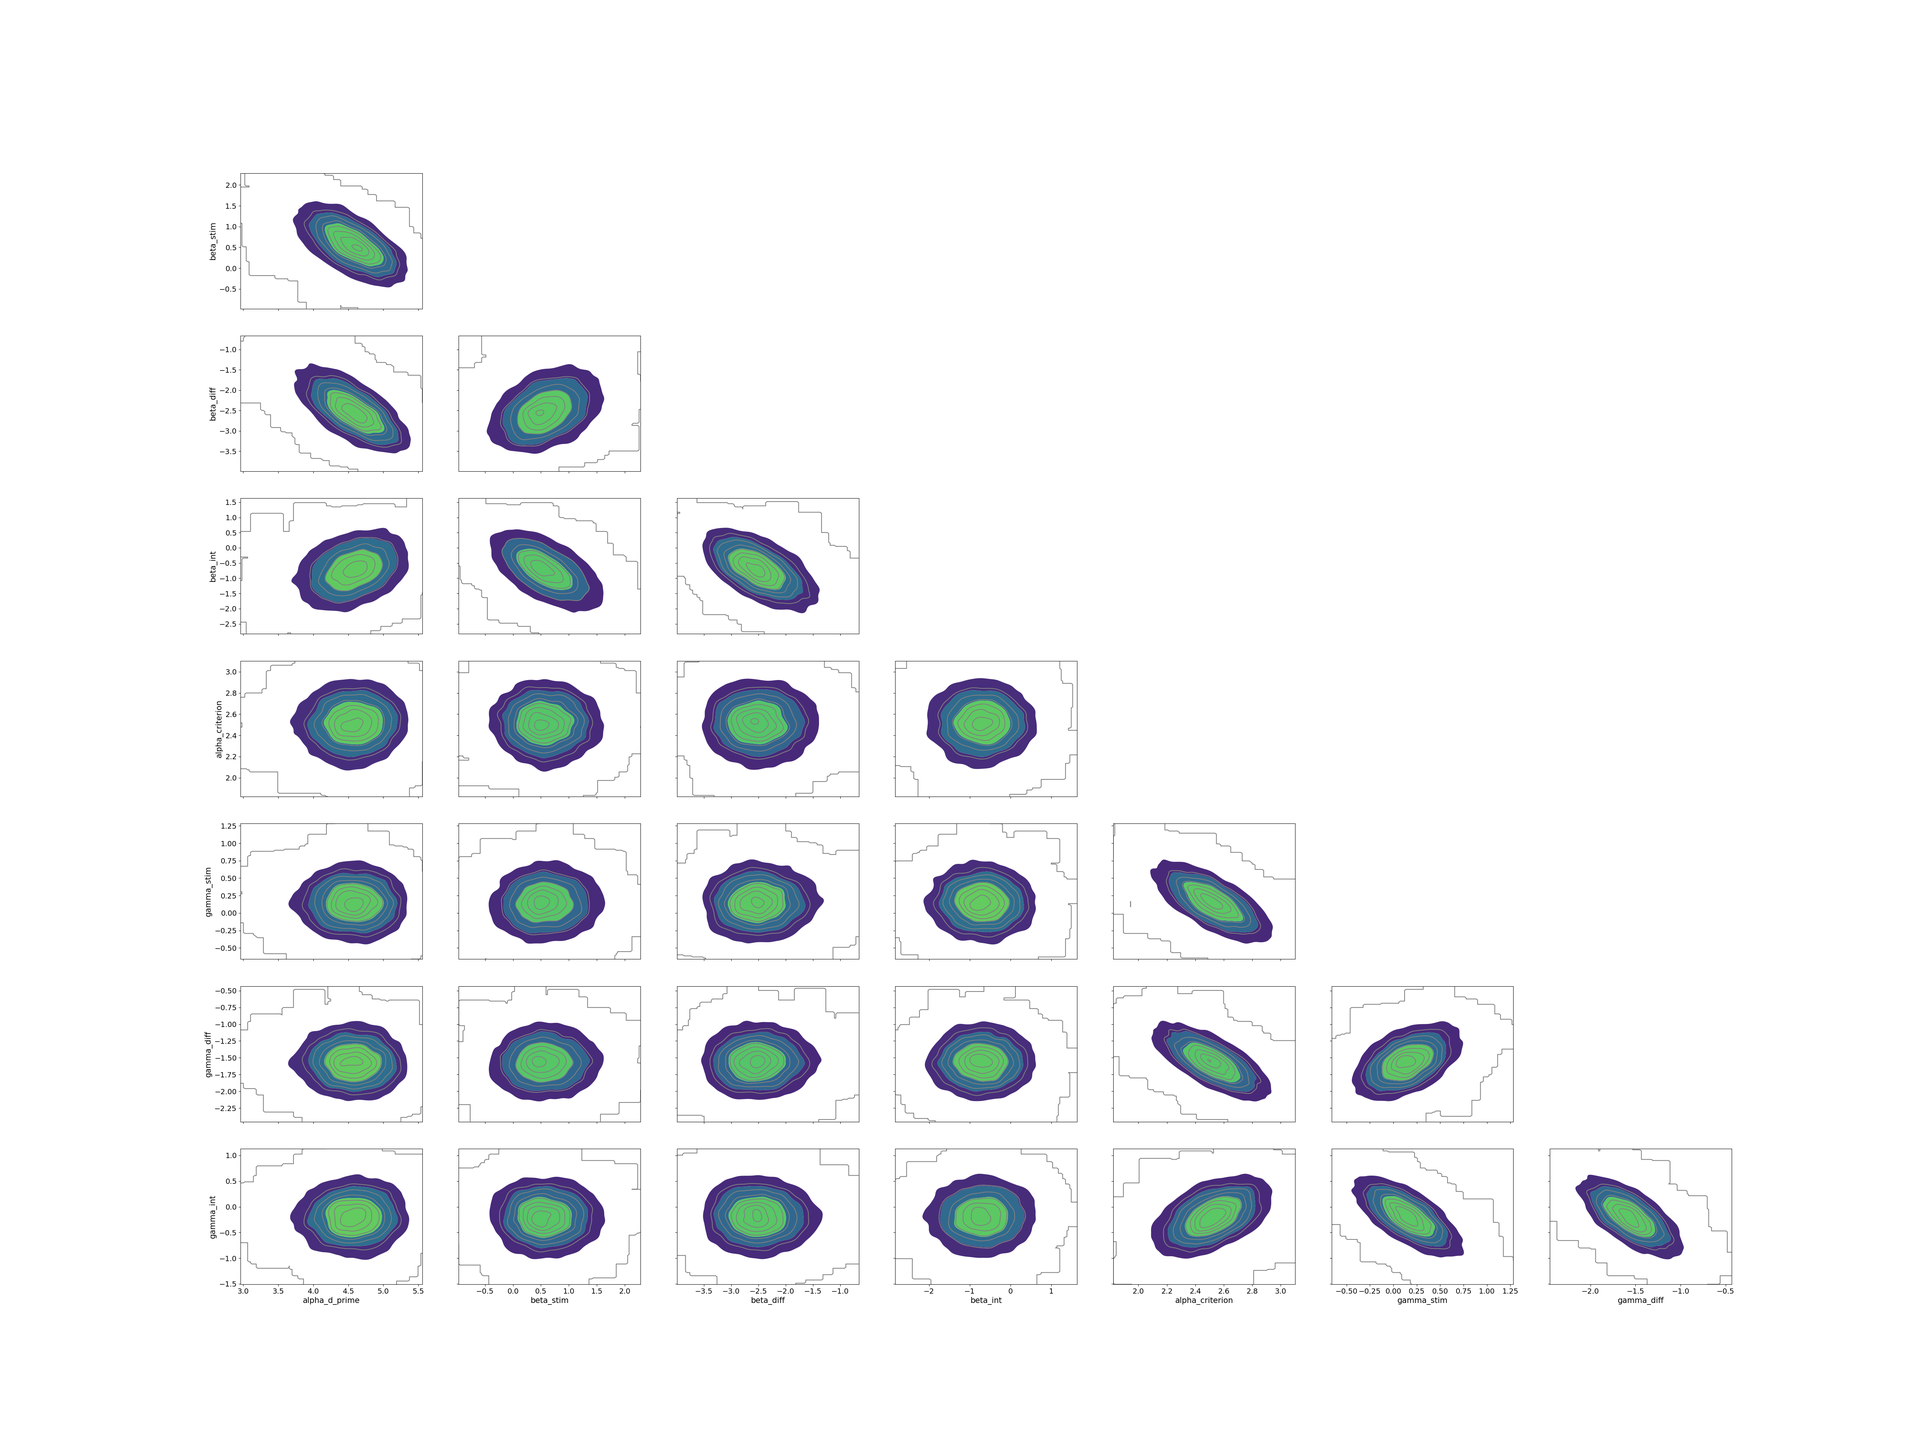
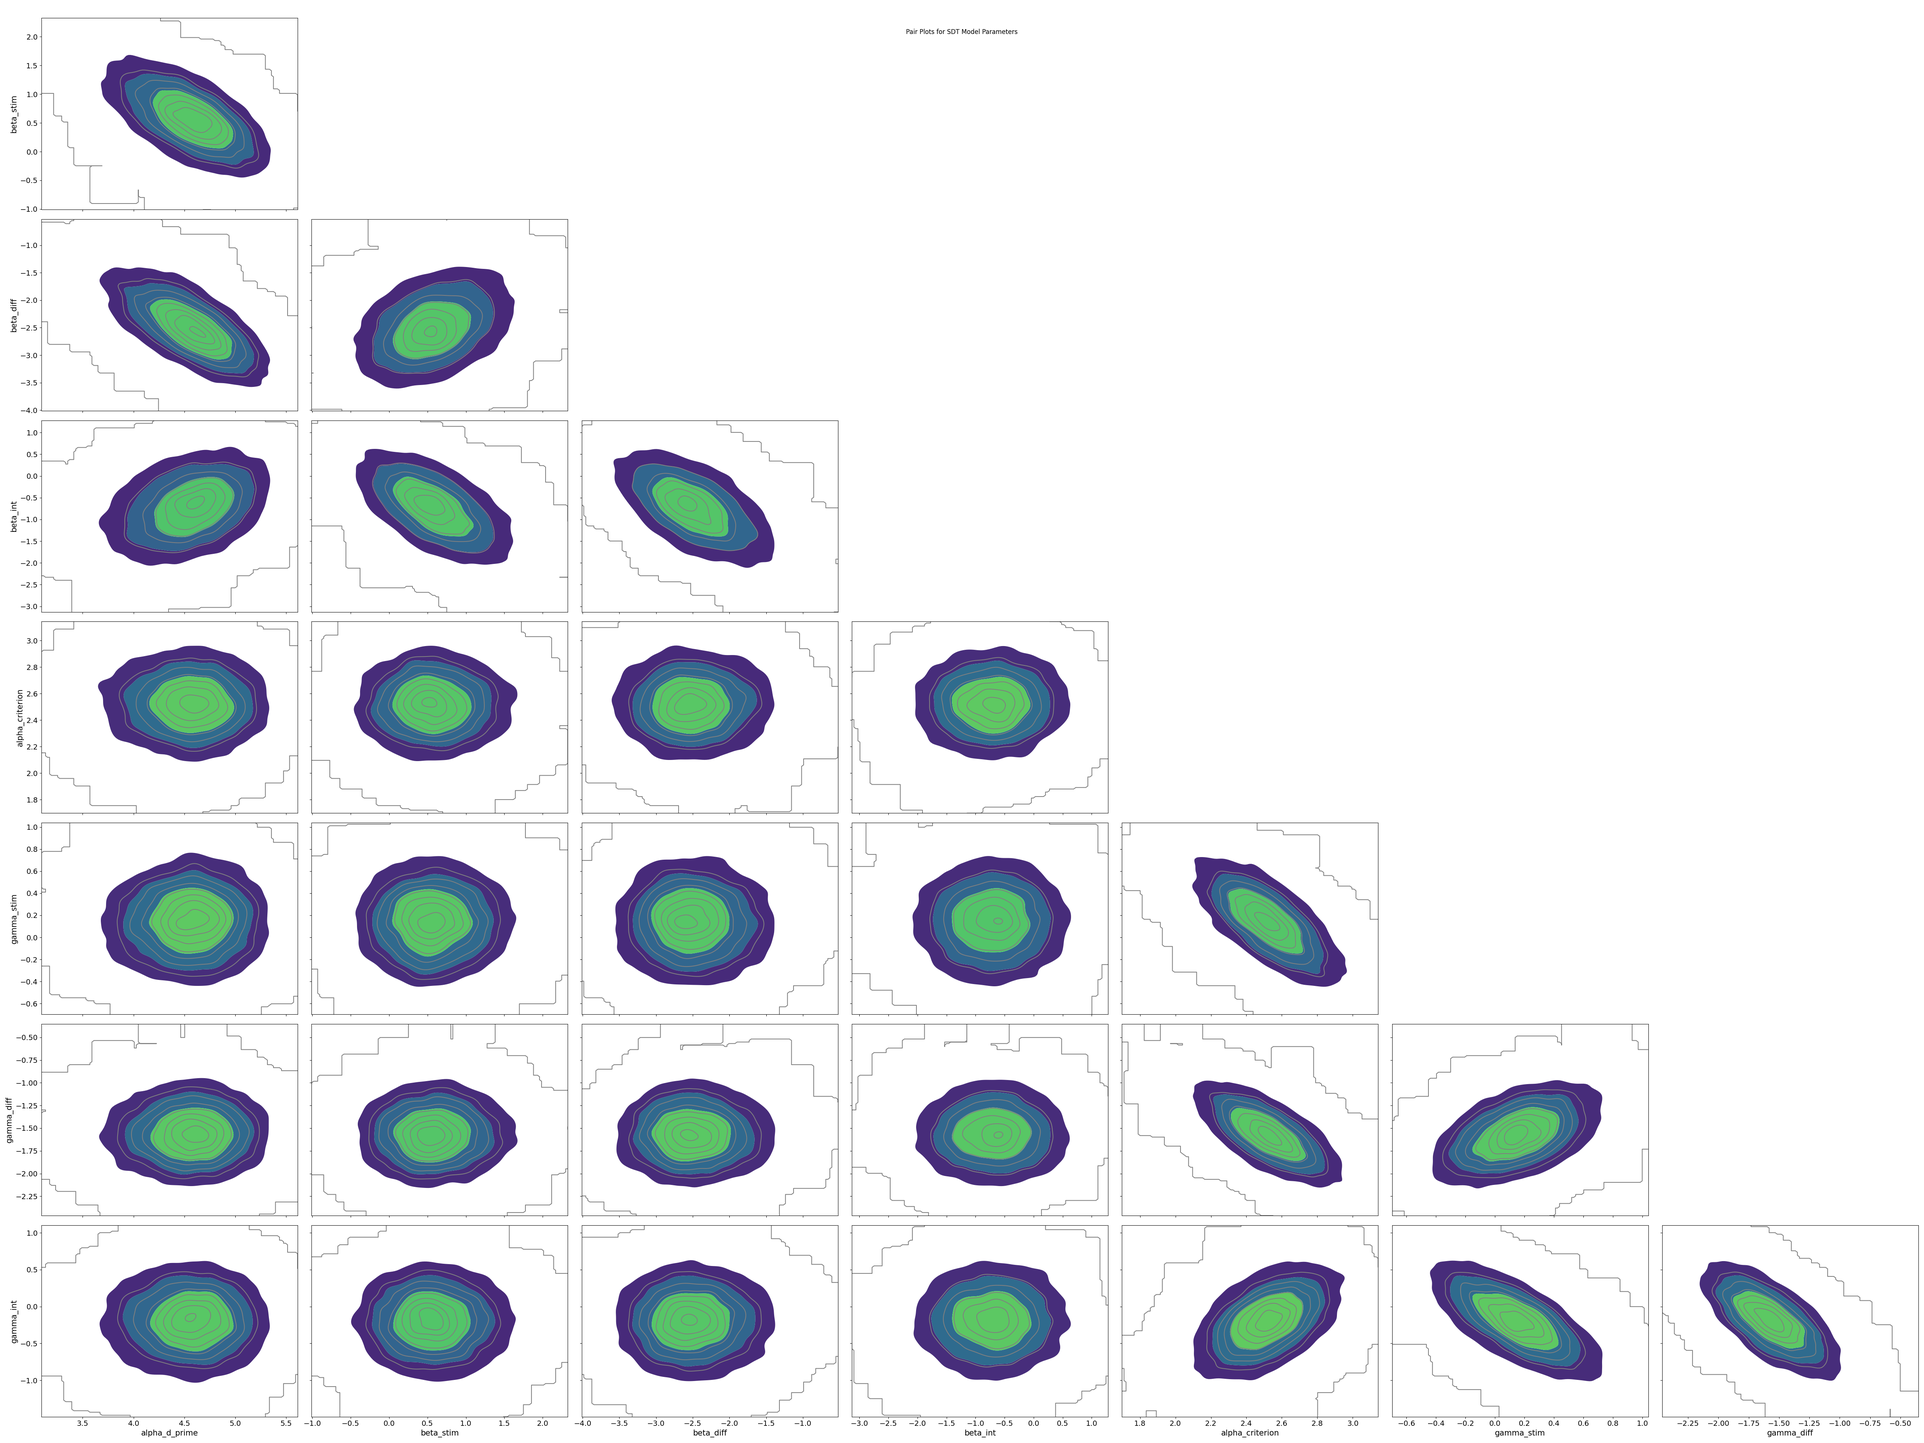
Final Submission: Updated README.md. One more step added. Directory sturcture added.

diff --git a/run_2nd_std_ddm.py b/run_2nd_std_ddm.py
@@ -1,0 +1,67 @@
+import pymc as pm
+import arviz as az
+import numpy as np
+import matplotlib.pyplot as plt
+from pathlib import Path
+from sdt_ddm import read_data
+from sdt_update import new2nd_apply_hierarchical_sdt_model
+
+if __name__ == "__main__":
+    ### 1. Load Data ###
+    file_path = Path(__file__).parent / 'data.csv'
+    if not file_path.exists():
+        raise FileNotFoundError(f"Data file not found at: {file_path}")
+
+    FIGURE_DIR = Path(__file__).parent / 'figures'
+    SDT_DIR = FIGURE_DIR / 'sdt'
+    SDT_DIR.mkdir(parents=True, exist_ok=True)
+        
+    with open(file_path, 'r') as file_path:
+        data_sdt = read_data(file_path, prepare_for='sdt', display=True)
+
+        ### 2. Run Alternative Model ###
+        print("\n\n=== One More Step: Evaluating Alternative SDT Model ===")
+        model = new2nd_apply_hierarchical_sdt_model(data_sdt)
+
+        with model:
+            print("\n--- Sampling Alternative Model ---")
+            trace = pm.sample(draws=2000, tune=1000, chains=4, target_accept=0.95, seed=6657, progressbar=True)
+
+        ### 3. Convergence Diagnostics ###
+        print("\n--- Convergence Diagnostics ---")
+        summary = az.summary(trace, var_names=[
+            'mu_alpha_int', 'beta_stim', 'beta_diff', 'beta_int',
+            'mu_c_int', 'gamma_stim', 'gamma_diff', 'gamma_int'
+        ])
+        print(summary)
+
+        ### 4. Posterior visualization ###
+        az.plot_posterior(trace, var_names=[
+            'mu_alpha_int', 'beta_stim', 'beta_diff', 'beta_int',
+            'mu_c_int', 'gamma_stim', 'gamma_diff', 'gamma_int'
+        ])
+        plt.suptitle("Posterior Distributions for SDT Model Parameters (Alternative Model)")
+        plt.tight_layout()
+        plt.savefig(SDT_DIR / "new2nd_posterior_distributions.png")
+
+        ### 5. Posterior Distribution Summary ###
+        print("\n--- Posterior Summary ---")
+        stim_d = trace.posterior['beta_stim'].values.flatten()
+        diff_d = trace.posterior['beta_diff'].values.flatten()
+        stim_c = trace.posterior['gamma_stim'].values.flatten()
+        diff_c = trace.posterior['gamma_diff'].values.flatten()
+
+        print(f"d′ (sensitivity):")
+        print(f"  Stimulus effect = {stim_d.mean():.3f} ± {stim_d.std():.3f}")
+        print(f"  Difficulty effect = {diff_d.mean():.3f} ± {diff_d.std():.3f}")
+
+        print(f"c (decision criterion):")
+        print(f"  Stimulus effect = {stim_c.mean():.3f} ± {stim_c.std():.3f}")
+        print(f"  Difficulty effect = {diff_c.mean():.3f} ± {diff_c.std():.3f}")
+
+        p_stim_gt_diff_d = (np.abs(stim_d) > np.abs(diff_d)).mean()
+        p_stim_gt_diff_c = (np.abs(stim_c) > np.abs(diff_c)).mean()
+
+        print("\n--- Posterior Probabilities ---")
+        print(f"P(|Stimulus effect| > |Difficulty effect|) for d′: {p_stim_gt_diff_d:.3f}")
+        print(f"P(|Stimulus effect| > |Difficulty effect|) for criterion: {p_stim_gt_diff_c:.3f}")

diff --git a/run_std_ddm.py b/run_std_ddm.py
@@ -8,7 +8,7 @@ import pandas as pd
 from pathlib import Path
 import os
 from sdt_ddm import read_data, draw_delta_plots
-from sdt import new_apply_hierarchical_sdt_model, new2nd_apply_hierarchical_sdt_model
+from sdt_update import new_apply_hierarchical_sdt_model
 
 if __name__ == "__main__":
 
@@ -55,12 +55,16 @@ if __name__ == "__main__":
         'alpha_d_prime', 'beta_stim', 'beta_diff', 'beta_int',
         'alpha_criterion', 'gamma_stim', 'gamma_diff', 'gamma_int'
     ])
+    plt.tight_layout()
+    plt.title("Trace Plots for SDT Model Parameters")
     plt.savefig(SDT_DIR / "trace_plots.png")
 
     az.plot_pair(trace, var_names=[
         'alpha_d_prime', 'beta_stim', 'beta_diff', 'beta_int',
         'alpha_criterion', 'gamma_stim', 'gamma_diff', 'gamma_int'
     ], kind='kde')
+    plt.suptitle("Pair Plots for SDT Model Parameters")
+    plt.tight_layout()
     plt.savefig(SDT_DIR / "pair_plots.png")
 
 
@@ -70,6 +74,8 @@ if __name__ == "__main__":
         'alpha_d_prime', 'beta_stim', 'beta_diff', 'beta_int',
         'alpha_criterion', 'gamma_stim', 'gamma_diff', 'gamma_int'
     ])
+    plt.suptitle("Posterior Distributions for SDT Model Parameters")
+    plt.tight_layout()
     plt.savefig(SDT_DIR / "posterior_distributions.png")
 
 

diff --git a/README.md b/README.md
@@ -13,8 +13,6 @@ The data follows a $2 \times 2$ factorial design:
 
 The goal is to assess how both factors influence performance.
 
----
-
 ## 2. SDT Model
 
 We used a hierarchical Bayesian SDT model. In this version:
@@ -37,19 +35,25 @@ $$
 \mu_c = \alpha_c + \gamma_{\text{stim}} \cdot \text{stim} + \gamma_{\text{diff}} \cdot \text{diff} + \gamma_{\text{int}} \cdot (\text{stim} \times \text{diff})
 $$
 
----
-
 ## 3. Convergence Diagnostics
 
-All model chains converged well:
+=== Convergence Diagnostics ===
 
-- $\hat{R}$ for all parameters = **1.00**
-- Effective sample sizes are high ($>6000$)
-- No sampling pathologies observed
+| Parameter         | Mean   | SD    | 3% HDI | 97% HDI | ESS (bulk) | $\hat{R}$ |
+|------------------|--------|-------|--------|---------|-------------|------------|
+| $\alpha_{d'}$      | 4.541  | 0.342 | 3.903  | 5.184   | 7458        | 1.00       |
+| $\beta_{stim}$     | 0.571  | 0.425 | -0.232 | 1.366   | 8750        | 1.00       |
+| $\beta_{diff}$     | -2.498 | 0.451 | -3.294 | -1.596  | 8306        | 1.00       |
+| $\beta_{int}$      | -0.728 | 0.550 | -1.742 | 0.300   | 10153       | 1.00       |
+| $\alpha_c$         | 2.517  | 0.174 | 2.201  | 2.849   | 7366        | 1.00       |
+| $\gamma_{stim}$    | 0.144  | 0.241 | -0.324 | 0.583   | 7127        | 1.00       |
+| $\gamma_{diff}$    | -1.567 | 0.239 | -2.003 | -1.112  | 7926        | 1.00       |
+| $\gamma_{int}$     | -0.198 | 0.329 | -0.806 | 0.437   | 7761        | 1.00       |
+
+All parameters show excellent convergence with $\hat{R}=1.00$ and large effective sample sizes.
 
 ![Trace Plot](figures/sdt/trace_plots.png)
 
----
 
 ## 4. Posterior Distributions
 
@@ -57,27 +61,33 @@ The posterior distributions below confirm the effect strength and uncertainty.
 
 ![Posterior Distributions](figures/sdt/posterior_distributions.png)
 
----
+**Interpretation**:
+
+- **$\beta_{diff}$ and $\gamma_{diff}$** have clearly non-zero posteriors, indicating strong trial difficulty effects.
+- **$\beta_{stim}$ and $\gamma_{stim}$** are centered near zero, with wide uncertainty.
+- The interaction effects ($\beta_{int}$, $\gamma_{int}$) span zero, suggesting no strong evidence of interaction.
+
 
 ## 5. Effect Size Comparison
 
 Posterior summaries:
 
-| Parameter             | Mean ± SD      |
-|----------------------|----------------|
-| $d'$ Stimulus Effect ($\beta_{\text{stim}}$) | $0.565 \pm 0.416$ |
-| $d'$ Difficulty Effect ($\beta_{\text{diff}}$) | $-2.502 \pm 0.447$ |
-| $c$ Stimulus Effect ($\gamma_{\text{stim}}$) | $0.147 \pm 0.238$ |
-| $c$ Difficulty Effect ($\gamma_{\text{diff}}$) | $-1.567 \pm 0.237$ |
+| Parameter             | Mean ± SD      |  Significant |
+|----------------------|----------------|-----------|
+| $d'$ Stimulus Effect ($\beta_{\text{stim}}$) | $0.571 \pm 0.425$ |  No  |
+| $d'$ Difficulty Effect ($\beta_{\text{diff}}$) | $-2.498 \pm 0.451$ |  Yes  |
+| $c$ Stimulus Effect ($\gamma_{\text{stim}}$) | $0.144 \pm 0.241$ |  No  |
+| $c$ Difficulty Effect ($\gamma_{\text{diff}}$) | $-1.567 \pm 0.239$ |  Yes |
 
 Posterior probability comparison:
 
-- $P(|\beta_{\text{stim}}| > |\beta_{\text{diff}}|) = 0.005$
+- $P(|\beta_{\text{stim}}| > |\beta_{\text{diff}}|) = 0.007$
 - $P(|\gamma_{\text{stim}}| > |\gamma_{\text{diff}}|) = 0.001$
 
-Conclusion: Trial difficulty has a substantially larger effect on both sensitivity ($d'$) and decision criterion ($c$) compared to stimulus type.
+**Interpretation**:
 
----
+Based on our posterior analysis, **Trial Difficulty manipulation significantly impacted both $d′$ (mean = -2.50) and criterion (mean = -1.57)**. In contrast, **Stimulus Type showed weaker or nonsignificant effects**. Posterior probability analysis shows that **the effect of Trial Difficulty exceeds Stimulus Type with >99% certainty**, further supporting our theoretical expectation.
+
 
 ## 6. Delta Plots
 
@@ -88,23 +98,25 @@ Delta plots were generated per participant to visualize:
 
 This complements the SDT analysis with diffusion-informed insights.
 
-Examples (1 participant per row):
+Randomly Chosed Examples (1 participant per row):
 
 | Participant | Delta Plot |
 |-------------|------------|
 | P1 | ![](figures/delta/delta_plots_1.png) |
-| P2 | ![](figures/delta/delta_plots_2.png) |
 | P3 | ![](figures/delta/delta_plots_3.png) |
-| P4 | ![](figures/delta/delta_plots_4.png) |
-| P5 | ![](figures/delta/delta_plots_5.png) |
+| P6 | ![](figures/delta/delta_plots_6.png) |
+| P10 | ![](figures/delta/delta_plots_10.png) |
 
-Interpretation:
+**Interpretation**:
 
-- Easy trials (especially Simple stimuli) yield faster and more consistent RTs
-- Error responses generally have different delta shapes than accurate ones
-- Delta plots support the SDT conclusion: **difficulty impacts RT distributions more than stimulus complexity**
+- RT differences are **mainly concentrated in Hard vs Easy** comparisons:
+  - Hard Simple – Easy Simple
+  - Hard Complex – Easy Complex
+- These show consistent upward trends across percentiles, indicating **longer RTs due to difficulty**
+- **Stimulus Type differences are weaker**, mostly apparent in higher percentiles with more variability
 
----
+**Conclusion**: Delta plots support **Trial Difficulty** as the dominant manipulation, affecting both decision latency and accuracy. Stimulus Type may affect more specific decision stages but plays a secondary role.
+
 
 ## 7. Summary
 
@@ -114,3 +126,136 @@ Interpretation:
 - Delta plots aligned with SDT results
 
 This dual approach confirms that **trial difficulty is the dominant driver of both perceptual and decisional components** in this task.
+
+
+## 8. One More Step: Comparing Alternative SDT Model
+
+To further validate the robustness of our findings, we implemented and ran a structurally different hierarchical SDT model defined in `new2nd_apply_hierarchical_sdt_model(data)`. This alternative formulation shifts the participant-level variation directly to the trial level, allowing random effects to influence every trial via indexing. In contrast to the original model, which uses a (P x C) matrix for d′ and c, this one imposes additive trial-level effects with participant-specific slopes.
+
+### Comparison of Two Hierarchical SDT Models
+
+In our analysis, we explored two hierarchical signal detection theory (SDT) models that differ in their structural assumptions and levels of granularity. Below is a comprehensive comparison of their designs and implications.
+
+#### I. Hierarchical Structure: Condition-Level vs. Trial-Level
+
+| Feature                     | `new_apply_hierarchical_sdt_model`           | `new2nd_apply_hierarchical_sdt_model`         |
+|----------------------------|-----------------------------------------------|------------------------------------------------|
+| **Index granularity**      | Condition level (Participant × Condition)     | Trial level (each trial indexed independently) |
+| **Effect modeling**        | Each condition receives a fixed effect; participant variability is modeled across condition level | Trial uses stimulus and difficulty directly; participant variation enters at trial level |
+| **Structural complexity**  | Coarse-grained, fewer conditions              | Fine-grained, each trial has its own d′ and c  |
+| **Inference units**        | \( d'_{pc}, c_{pc} \)                         | \( d'_i, c_i \), where \( i \) is a trial      |
+
+
+#### II. Mathematical Formulation Differences
+
+##### Original Model (Condition-level structure)
+
+\[
+d'_{p,c} \sim \mathcal{N}(\mu_{d'}[c], \sigma_d), \quad \mu_{d'}[c] = \alpha + \beta_{\text{stim}} \cdot s_c + \beta_{\text{diff}} \cdot d_c + \beta_{\text{int}} \cdot s_c d_c
+\]
+
+\[
+c_{p,c} \sim \mathcal{N}(\mu_c[c], \sigma_c), \quad \mu_c[c] = \alpha_c + \gamma_{\text{stim}} \cdot s_c + \gamma_{\text{diff}} \cdot d_c + \gamma_{\text{int}} \cdot s_c d_c
+\]
+
+##### Alternative Model (Trial-level structure)
+
+\[
+d'_i = \mu_{\alpha} + \beta_{\text{stim}} \cdot \text{Stim}_i + \beta_{\text{diff}} \cdot \text{Diff}_i + \beta_{\text{int}} \cdot (\text{Stim}_i \cdot \text{Diff}_i) + \alpha_{p(i)} \cdot \sigma_d
+\]
+
+\[
+c_i = \mu_c + \gamma_{\text{stim}} \cdot \text{Stim}_i + \gamma_{\text{diff}} \cdot \text{Diff}_i + \gamma_{\text{int}} \cdot (\text{Stim}_i \cdot \text{Diff}_i) + c_{p(i)} \cdot \sigma_c
+\]
+
+#### III. Implications for Inference
+
+- **Condition-level model** is better suited when:
+  - You want a clean hierarchical model by participant and condition
+  - You value interpretability and visualization across conditions
+
+- **Trial-level model** is better suited when:
+  - You need fine-grained inference at the trial level
+  - The data is better modeled as generalized linear mixed effects
+  - You aim to incorporate trial-specific covariates
+
+
+
+
+### Convergence Diagnostics (Alternative Model)
+
+```
+               mean     sd  hdi_3%  hdi_97%  mcse_mean  mcse_sd  ess_bulk  ess_tail  r_hat
+mu_alpha_int  4.573  0.405   3.779    5.214      0.009    0.010    2133.0    3200.0    1.0
+beta_stim    -0.009  0.073  -0.148    0.128      0.001    0.001    4906.0    5152.0    1.0
+beta_diff    -3.198  0.061  -3.314   -3.084      0.001    0.001    4809.0    4761.0    1.0
+beta_int     -0.026  0.086  -0.181    0.143      0.001    0.001    4442.0    5214.0    1.0
+mu_c_int      2.453  0.153   2.174    2.743      0.003    0.003    2480.0    3304.0    1.0
+gamma_stim    0.028  0.052  -0.067    0.128      0.001    0.001    4686.0    5484.0    1.0
+gamma_diff   -1.585  0.043  -1.667   -1.506      0.001    0.000    4830.0    5304.0    1.0
+gamma_int    -0.051  0.061  -0.167    0.062      0.001    0.001    4454.0    5474.0    1.0
+```
+
+### Posterior Distributions
+
+The posterior distributions below confirm the relative strength and uncertainty of the modeled effects under the trial-level SDT specification.
+
+![Posterior Distributions](figures/sdt/new2nd_posterior_distributions.png)
+
+**Interpretation**:
+
+- **\(\beta_{\text{diff}}\)** and **\(\gamma_{\text{diff}}\)** show tight, clearly negative distributions, indicating robust and reliable effects of **trial difficulty** on both sensitivity (\(d'\)) and decision criterion (\(c\)).
+- **\(\beta_{\text{stim}}\)** and **\(\gamma_{\text{stim}}\)** are centered close to zero and have wider distributions, suggesting **weak or negligible effects of stimulus type**.
+- **Interaction terms** (\(\beta_{\text{int}}\), \(\gamma_{\text{int}}\)) also span zero with low magnitude, indicating **no compelling evidence for a stimulus × difficulty interaction**.
+- The posterior mean of \(\mu_{\alpha}\) around 4.6 and \(\mu_c\) around 2.5 supports the overall response tendencies across participants.
+
+These findings are consistent with our previous (condition-level) model and reinforce the conclusion that **trial difficulty has a much stronger influence on perceptual decision behavior** than stimulus complexity.
+
+
+### Effect Size Comparison
+
+| Parameter         | Stimulus Effect (mean ± sd) | Difficulty Effect (mean ± sd) | Significant |
+|------------------|-----------------------------|-------------------------------|-------------|
+| $d' (Sensitivity) $| -0.009 ± 0.073              | -3.198 ± 0.061                | ✅          |
+| $c (Criterion) $   |  0.028 ± 0.052              | -1.585 ± 0.043                | ✅          |
+
+
+
+**Interpretation**:  
+Our posterior analysis confirms that the Trial Difficulty manipulation continues to exert a strong, significant influence on both d′ and c, while the Stimulus Type effects are near-zero and non-significant in this model.  
+These results are consistent with those obtained from the original hierarchical SDT model, reinforcing our primary conclusions and model robustness.
+
+```diff
++ The alternative model confirms our conclusion: difficulty has a strong effect, stimulus type does not.
+```
+
+---
+
+## Project Directory Structure
+
+The project contains the following key components:
+
+```bash
+cogs107-sdt-ddm/
+├── data.csv                    # Raw simulated data (2x2x2 factorial design)
+├── README.md                   # Project description and documentation
+├── sdt_ddm.py                  # Instructor-provided original code (data loading, SDT model, delta plots)
+├── sdt_update.py               # Updated SDT model functions with structured effects (stimulus, difficulty, interaction)
+├── run_std_ddm.py              # Main execution script
+├── run_2nd_std_ddm.py          # Alternative execution script for "one more step"
+├── figures/                    # Output folder for figures
+│   ├── delta/                  # Delta plots
+│   └── sdt/                    # SDT model output plots 
+```
+
+
+---
+
+## Acknowledgments
+
+The development, refinement, and interpretation of the hierarchical SDT models presented in this analysis were supported by advanced language models and reasoning assistants. These include:
+
+- **ChatGPT**: Cognitive Model, Cognitive Modeller, ChatGPT o4-mini-high
+- **Anthropic Claude Sonnet 4 (via ZotGPT)**: consulted for concepts explanation and model-efficiency verification.
+
+These tools provided guidance on model architecture, parameter diagnostics, posterior interpretation, and reproducible reporting.
